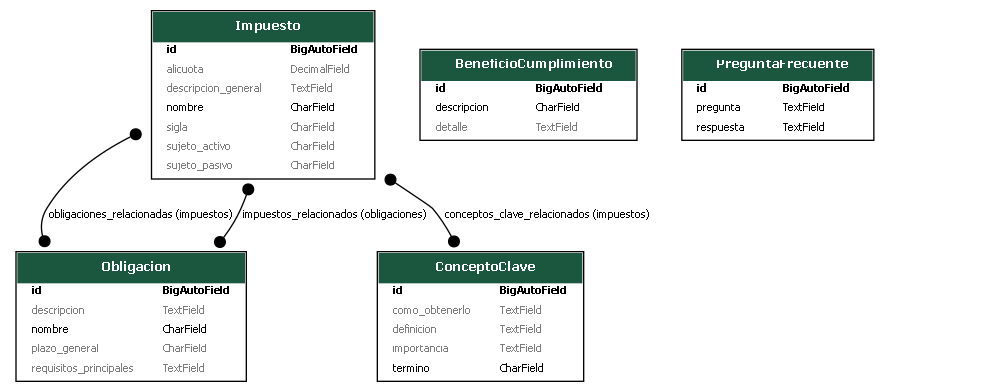
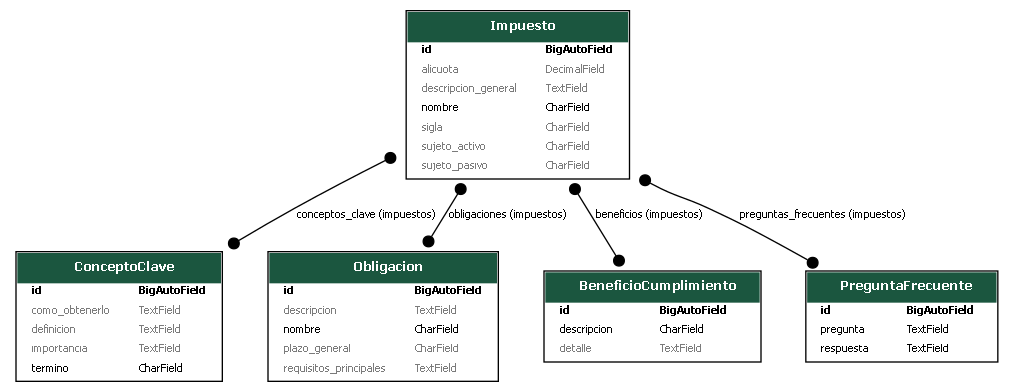
cambios

diff --git a/servicios/models.py b/servicios/models.py
@@ -1,32 +1,5 @@
 from django.db import models
 
-# servicios/models.py
-from django.db import models
-
-class Impuesto(models.Model):
-    nombre = models.CharField(max_length=200)
-    sigla = models.CharField(max_length=50, blank=True, null=True)
-    descripcion_general = models.TextField(blank=True, null=True)
-    sujeto_activo = models.CharField(max_length=200, blank=True, null=True)
-    sujeto_pasivo = models.CharField(max_length=200, blank=True, null=True)
-    alicuota = models.DecimalField(max_digits=5, decimal_places=2, blank=True, null=True)
-    conceptos_clave_relacionados = models.ManyToManyField('ConceptoClave', blank=True, related_name='impuestos')
-    obligaciones_relacionadas = models.ManyToManyField('Obligacion', blank=True, related_name='impuestos')
-
-
-    def __str__(self):
-        return self.nombre
-    
-class Obligacion(models.Model):
-    nombre = models.CharField(max_length=200)
-    descripcion = models.TextField(blank=True, null=True)
-    plazo_general = models.CharField(max_length=100, blank=True, null=True)
-    requisitos_principales = models.TextField(blank=True, null=True)
-    impuestos_relacionados = models.ManyToManyField(Impuesto, blank=True, related_name='obligaciones')
-
-    def __str__(self):
-        return self.nombre
-
 class ConceptoClave(models.Model):
     termino = models.CharField(max_length=200, unique=True)
     definicion = models.TextField(blank=True, null=True)
@@ -36,12 +9,41 @@ class ConceptoClave(models.Model):
     def __str__(self):
         return self.termino
 
+
+class Obligacion(models.Model):
+    nombre = models.CharField(max_length=200)
+    descripcion = models.TextField(blank=True, null=True)
+    plazo_general = models.CharField(max_length=100, blank=True, null=True)
+    requisitos_principales = models.TextField(blank=True, null=True)
+
+    def __str__(self):
+        return self.nombre
+
+
 class BeneficioCumplimiento(models.Model):
     descripcion = models.CharField(max_length=200)
     detalle = models.TextField(blank=True, null=True)
 
     def __str__(self):
         return self.descripcion
+
+
+class Impuesto(models.Model):
+    nombre = models.CharField(max_length=200)
+    sigla = models.CharField(max_length=50, blank=True, null=True)
+    descripcion_general = models.TextField(blank=True, null=True)
+    sujeto_activo = models.CharField(max_length=200, blank=True, null=True)
+    sujeto_pasivo = models.CharField(max_length=200, blank=True, null=True)
+    alicuota = models.DecimalField(max_digits=5, decimal_places=2, blank=True, null=True)
+
+    conceptos_clave = models.ManyToManyField(ConceptoClave, blank=True, related_name='impuestos')
+    obligaciones = models.ManyToManyField(Obligacion, blank=True, related_name='impuestos')
+    beneficios = models.ManyToManyField(BeneficioCumplimiento, blank=True, related_name='impuestos')
+    preguntas_frecuentes = models.ManyToManyField('PreguntaFrecuente', blank=True, related_name='impuestos')
+
+    def __str__(self):
+        return self.nombrse
+
 
 class PreguntaFrecuente(models.Model):
     pregunta = models.TextField()

diff --git a/servicios/migrations/0002_rename_conceptos_clave_relacionados_impuesto_conceptos_clave_and_more.py b/servicios/migrations/0002_rename_conceptos_clave_relacionados_impuesto_conceptos_clave_and_more.py
@@ -1,0 +1,37 @@
+# Generated by Django 5.2 on 2025-06-05 23:57
+
+from django.db import migrations, models
+
+
+class Migration(migrations.Migration):
+
+    dependencies = [
+        ('servicios', '0001_initial'),
+    ]
+
+    operations = [
+        migrations.RenameField(
+            model_name='impuesto',
+            old_name='conceptos_clave_relacionados',
+            new_name='conceptos_clave',
+        ),
+        migrations.RenameField(
+            model_name='impuesto',
+            old_name='obligaciones_relacionadas',
+            new_name='obligaciones',
+        ),
+        migrations.RemoveField(
+            model_name='obligacion',
+            name='impuestos_relacionados',
+        ),
+        migrations.AddField(
+            model_name='impuesto',
+            name='beneficios',
+            field=models.ManyToManyField(blank=True, related_name='impuestos', to='servicios.beneficiocumplimiento'),
+        ),
+        migrations.AddField(
+            model_name='impuesto',
+            name='preguntas_frecuentes',
+            field=models.ManyToManyField(blank=True, related_name='impuestos', to='servicios.preguntafrecuente'),
+        ),
+    ]

diff --git a/apitributaria/settings.py b/apitributaria/settings.py
@@ -38,7 +38,7 @@ INSTALLED_APPS = [
     'django.contrib.messages',
     'django.contrib.staticfiles',
     'django_extensions',
-    'rest_framework'
+    'rest_framework',
     'servicios',
 ]
 
